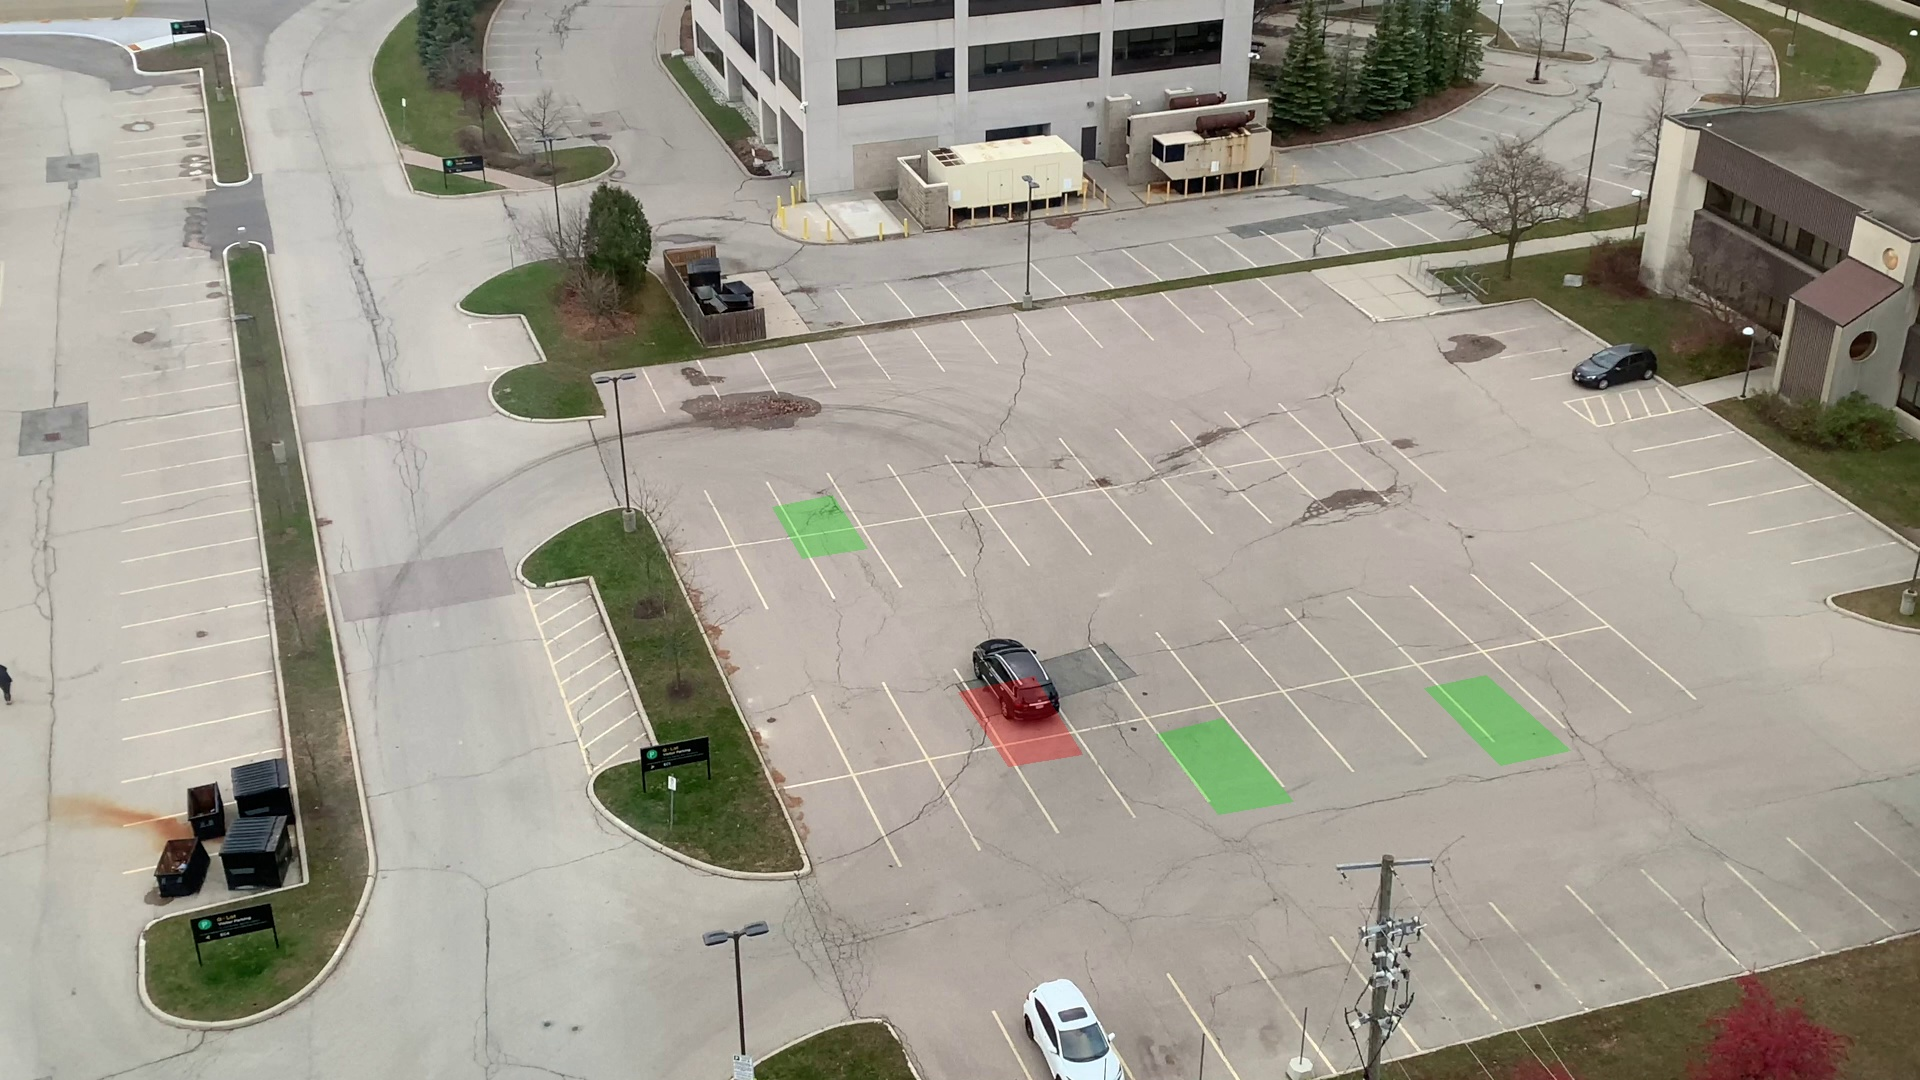
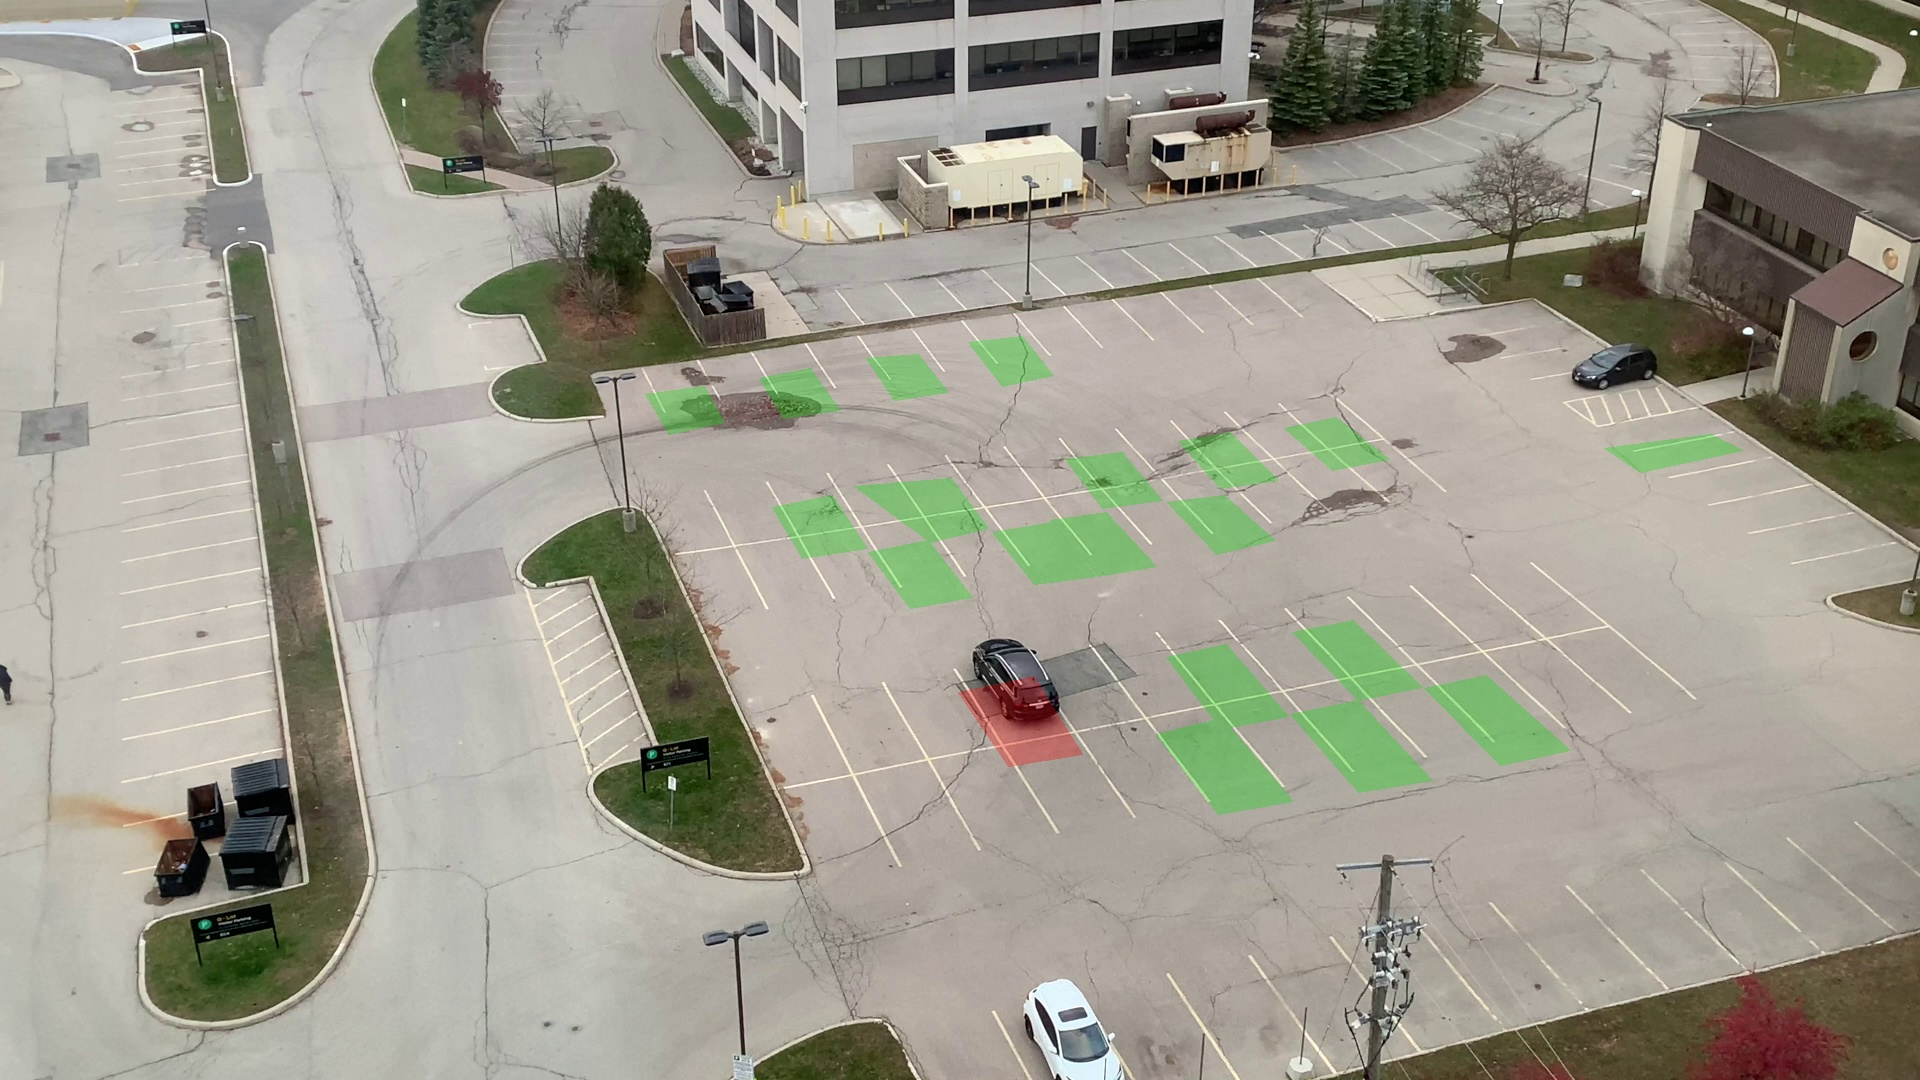
one las push

diff --git a/extractor/src/spots.py b/extractor/src/spots.py
@@ -1,22 +1,101 @@
 from shapely.geometry import Polygon
 import matplotlib.pyplot as plt
 import numpy as np
+import config as cfg 
+import mysql.connector
+
+HOST = cfg.db['host']
+PORT = cfg.db['port']
+DATABASE = cfg.db['database']
+USER = cfg.db['user']
+PASSWORD = cfg.db['password']
 
 class spotDetector: 
     def __init__(self):
         self.allSpots=[]
-        #self.convert = 1
+        # self.convert = 1
         self.convert = 1.5
         self.getAllSpots()
         print(self.allSpots)
         
 
     def getAllSpots(self):
-        self.allSpots.append(Polygon([(515*self.convert,338*self.convert),(535*self.convert, 372*self.convert),(578*self.convert, 365*self.convert),(555*self.convert, 330*self.convert)]))
-        self.allSpots.append(Polygon([(639*self.convert, 461*self.convert),(672*self.convert, 511*self.convert),(721*self.convert, 503*self.convert),(689*self.convert, 451*self.convert)]))
-        self.allSpots.append(Polygon([(949*self.convert, 459*self.convert),(1000*self.convert, 510*self.convert),(1047*self.convert, 500*self.convert),(991*self.convert, 450*self.convert)]))
-        self.allSpots.append(Polygon([(771 *self.convert, 489*self.convert),(812*self.convert, 543*self.convert),(862*self.convert, 534*self.convert),(815*self.convert, 479*self.convert)]))   
+        sql = Sql()
+        coordinates = sql.get_coordinates()
+        for row in coordinates:
+            number1 = row[0].split(',')
+            number2 = row[1].split(',')
+            number3 = row[2].split(',')
+            number4 = row[3].split(',')
+            self.allSpots.append(Polygon([(int(number1[0])*self.convert, int(number1[1])*self.convert),(int(number2[0])*self.convert, int(number2[1])*self.convert),
+            (int(number3[0])*self.convert, int(number3[1])*self.convert),(int(number4[0])*self.convert, int(number4[1])*self.convert)]))
+        # coordinates_1 = sql.get_coordinates(1)
+        # coordinates_2 = sql.get_coordinates(2)
+        # coordinates_3 = sql.get_coordinates(3)
+        # coordinates_4 = sql.get_coordinates(4)
+        # coord1_x1 = coordinates_1[0].split(',')
+        # coord1_y1 = coordinates_1[1].split(',')
+        # coord1_x2 = coordinates_1[2].split(',')
+        # coord1_y2 = coordinates_1[3].split(',')
+
+        # coord2_x1 = coordinates_2[0].split(',')
+        # coord2_y1 = coordinates_2[1].split(',')
+        # coord2_x2 = coordinates_2[2].split(',')
+        # coord2_y2 = coordinates_2[3].split(',')
+
+        # coord3_x1 = coordinates_3[0].split(',')
+        # coord3_y1 = coordinates_3[1].split(',')
+        # coord3_x2 = coordinates_3[2].split(',')
+        # coord3_y2 = coordinates_3[3].split(',')
+
+        # coord4_x1 = coordinates_4[0].split(',')
+        # coord4_y1 = coordinates_4[1].split(',')
+        # coord4_x2 = coordinates_4[2].split(',')
+        # coord4_y2 = coordinates_4[3].split(',')
+        
+       
+        # self.allSpots.append(Polygon([(int(coord1_x1[0])*self.convert,int(coord1_x1[1])*self.convert),(int(coord1_y1[0])*self.convert, int(coord1_y1[1])*self.convert),(int(coord1_x2[0])*self.convert, int(coord1_x2[1])*self.convert),(int(coord1_y2[1])*self.convert, int(coord1_y2[1])*self.convert)]))
+        # self.allSpots.append(Polygon([(int(coord1_x1[1])*self.convert, 461*self.convert),(672*self.convert, 511*self.convert),(721*self.convert, 503*self.convert),(689*self.convert, 451*self.convert)]))
+        # self.allSpots.append(Polygon([(949*self.convert, 459*self.convert),(1000*self.convert, 510*self.convert),(1047*self.convert, 500*self.convert),(991*self.convert, 450*self.convert)]))
+        # self.allSpots.append(Polygon([(771 *self.convert, 489*self.convert),(812*self.convert, 543*self.convert),(862*self.convert, 534*self.convert),(815*self.convert, 479*self.convert)]))   
         #self.allSpots.append(Polygon([(),(),(),()]))
 
     def returnSpots(self):
         return self.allSpots
+
+class Sql:
+        
+    def connected(self):
+        return self.cnx.is_connected()
+    
+    def connect(self):
+        self.cnx = mysql.connector.connect(user=USER, password=PASSWORD, host=HOST, port=PORT, database=DATABASE)
+    
+    def disconnect(self):
+        self.cnx.close()
+    
+    def get_coordinates(self):
+        self.connect()
+        cursor = self.cnx.cursor()
+
+        query = ("SELECT * from Coordinates ")
+        coordinates = []
+        cursor.execute(query,)
+        for row in cursor:
+            coordinates.append(row)
+        
+        cursor.close()
+        self.cnx.commit()
+        self.disconnect()
+
+        return coordinates
+
+sql = Sql()
+coordinates = sql.get_coordinates()
+for row in coordinates:
+    number1 = row[0].split(',')
+    number2 = row[1].split(',')
+    number3 = row[2].split(',')
+    number4 = row[3].split(',')
+    
+    print(int(number1[0]), int(number1[1]))

diff --git a/extractor/src/spots_backup.py b/extractor/src/spots_backup.py
@@ -1,0 +1,22 @@
+from shapely.geometry import Polygon
+import matplotlib.pyplot as plt
+import numpy as np
+
+class spotDetector: 
+    def __init__(self):
+        self.allSpots=[]
+        #self.convert = 1
+        self.convert = 1.5
+        self.getAllSpots()
+        print(self.allSpots)
+        
+
+    def getAllSpots(self):
+        self.allSpots.append(Polygon([(515*self.convert,338*self.convert),(535*self.convert, 372*self.convert),(578*self.convert, 365*self.convert),(555*self.convert, 330*self.convert)]))
+        self.allSpots.append(Polygon([(639*self.convert, 461*self.convert),(672*self.convert, 511*self.convert),(721*self.convert, 503*self.convert),(689*self.convert, 451*self.convert)]))
+        self.allSpots.append(Polygon([(949*self.convert, 459*self.convert),(1000*self.convert, 510*self.convert),(1047*self.convert, 500*self.convert),(991*self.convert, 450*self.convert)]))
+        self.allSpots.append(Polygon([(771 *self.convert, 489*self.convert),(812*self.convert, 543*self.convert),(862*self.convert, 534*self.convert),(815*self.convert, 479*self.convert)]))   
+        #self.allSpots.append(Polygon([(),(),(),()]))
+
+    def returnSpots(self):
+        return self.allSpots

diff --git a/extractor/src/cars.py b/extractor/src/cars.py
@@ -129,7 +129,7 @@ class carDetector:
     def checkIfOccupied(self, poly):
         for car in self.boundingBoxes:
             carPoly = self.convertBbToPolygon(car)
-            if(self.getPolygonIntersection(poly, carPoly) > 0.1):
+            if(self.getPolygonIntersection(poly, carPoly) > 0.25):
                 return True
         return False
 

diff --git a/extractor/src/broker.py b/extractor/src/broker.py
@@ -68,7 +68,7 @@ class Broker:
             #    self.get_spot_image()
                 #self.get_car_image()
             #print(self.car_detector.get_car_image(2))
-            if(self.frame_num == 15):
+            if(self.frame_num == 45):
                 self.car_detector.matchCar(2)
 
                 # TODO: send image to front end

diff --git a/extractor/src/config.py b/extractor/src/config.py
@@ -1,0 +1,7 @@
+db = {
+    'host': 'localhost',
+    'port': '3306',
+    'database': 'parksimply',
+    'user': 'backend',
+    'password': 'rinstagram'
+}
